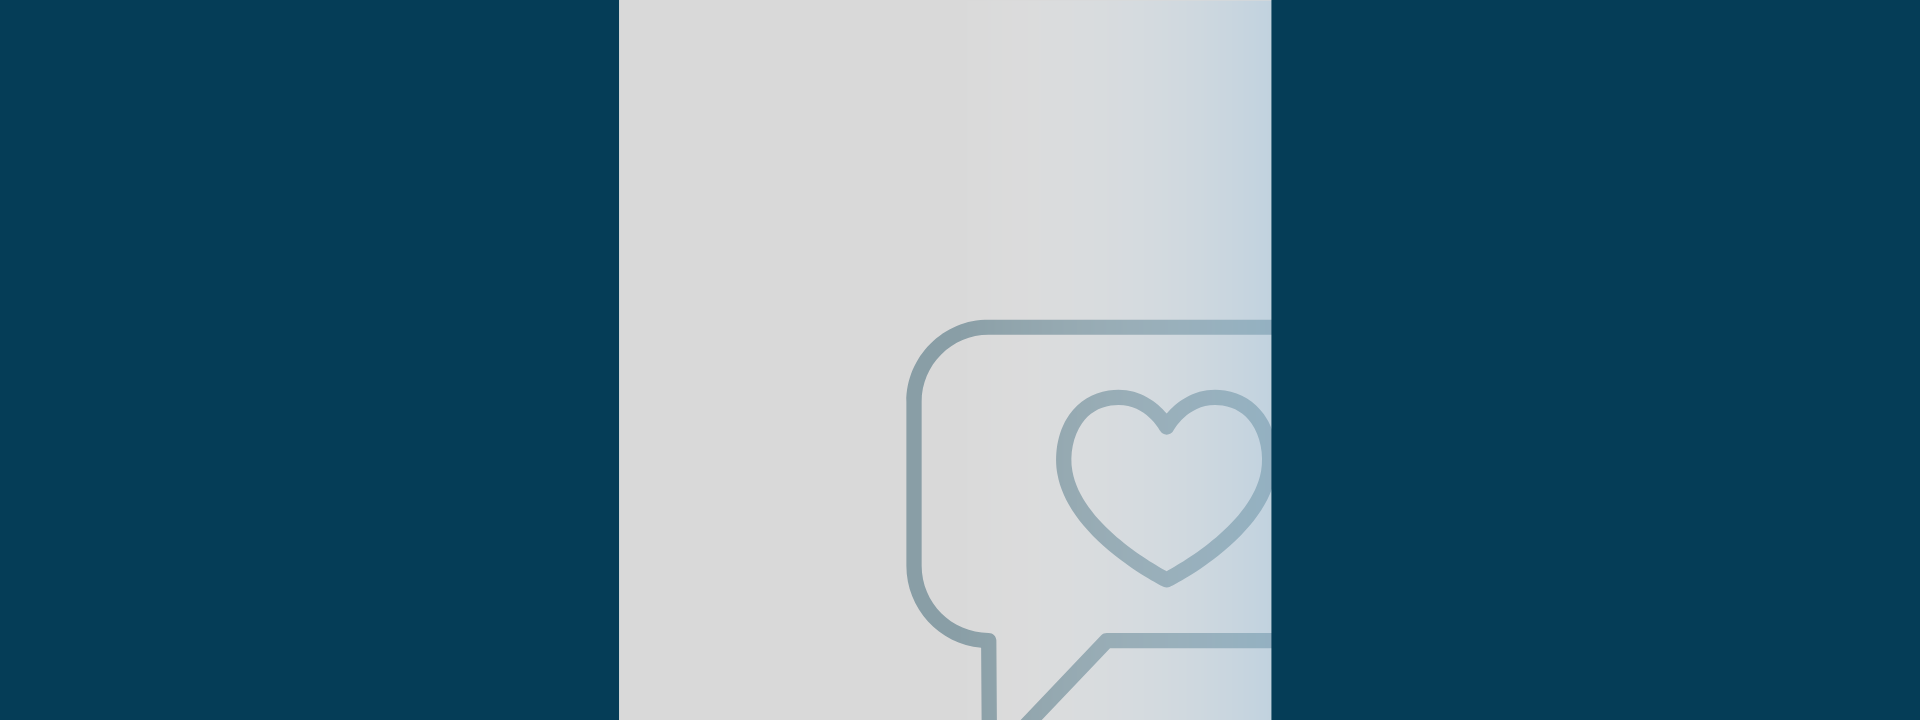
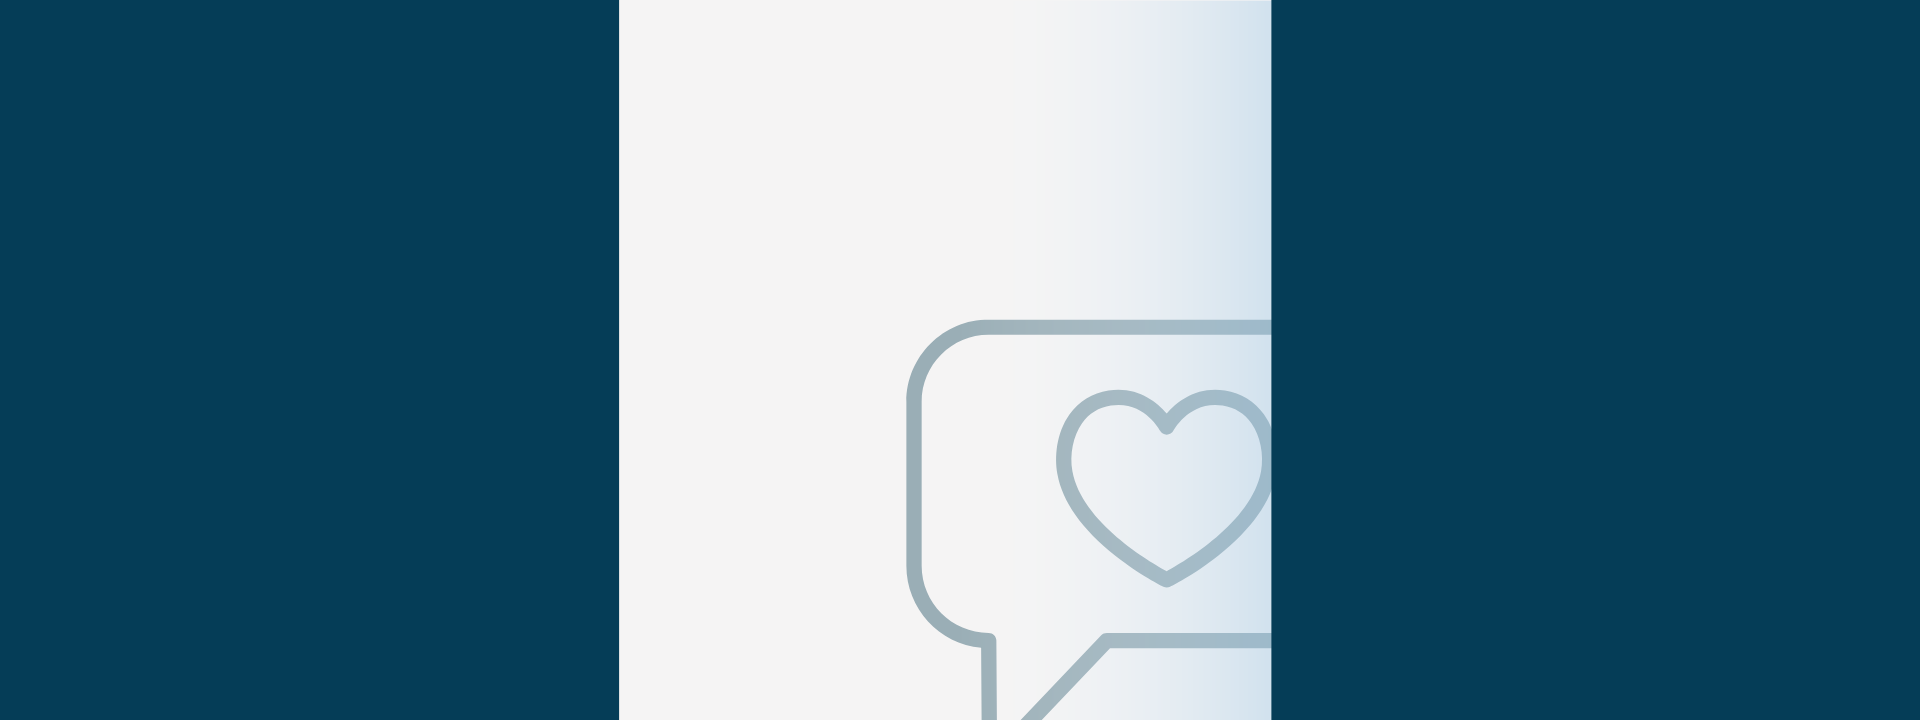
11-03-2023

Changed region(s): [[0.3125, 0.0, 0.5625, 1.0]]

diff --git a/src/Pages/Admissions.jsx b/src/Pages/Admissions.jsx
@@ -1,78 +1,17 @@
 import {React, useEffect, useState} from 'react';
 import {FaUserGraduate, FaHandshake} from "react-icons/fa"
 import {TbBulb} from "react-icons/tb"
+import Query from '../Components/Query';
 import {GiArchiveResearch, GiBrain} from "react-icons/gi"
 import {ImBooks} from "react-icons/im"
 import Carousel from '../Components/Caraousel';
 import photo from '../images/side.jpg';
 import '../assessts/admission.css';
-function Admissions() {  
-  const[name, setName] = useState('');
-  const[email, setEmail] = useState('');
-  const[phone, setPhone] = useState('');
-  const[message, setMessage] = useState('');
-  const[course, setCourse] = useState('');
+function Admissions() {
 
-  const handleSubmit = async (e) => {
-
-    e.preventDefault();
-    
-    const formData = new FormData();
-
-    formData.append("name", name);
-    formData.append("email", email);
-    formData.append("phone", phone);
-    formData.append("message", message);
-    formData.append("course", course);
-
-    console.log(formData);
-
-    const response = await fetch("https://script.google.com/macros/s/AKfycbzwQLkCGrDYtsXWalpt7E210MLYrdWRWcPqesQ8MpPTtlZmiktcX_G0oEuyrSMv-JY/exec",
-    {method: "POST",
-    body: formData,
-    mode: 'no-cors',
-  });
-    if (response.ok){
-      alert("Form Submitted");
-    }else{
-      alert("error occured");
-    }
-
-  }
   return (
     <>
-    <div className="query">
-        <div className="queryTagline">
-            <h1>Have a query?</h1>
-            <h1>Get it resolved</h1>
-            <h3>We are always there for you...</h3>
-        </div>
-        <div className="queryForm">
-            <h3>Enter your details</h3>
-            <form className="form" onSubmit={handleSubmit}>
-                <label htmlFor="Name">Name</label><br />
-                <input className='inputField' type="text" required name='Name' value={name} onChange={(e)=>setName(e.target.value)} placeholder='eg. Raj'/><br />
-                <label htmlFor="Email">Email</label><br />
-                <input className='inputField' type="email" required name='Email' value={email} onChange={(e)=>setEmail(e.target.value)} placeholder='eg. raj123@gmail.com'/><br />
-                <label htmlFor="Phone">Phone</label><br />
-                <input className='inputField' type="tel" required name='Phone' value={phone} onChange={(e)=>setPhone(e.target.value)} placeholder='eg. 7778889999' /><br />
-                <label htmlFor="Message">Message</label><br />
-                <input className='inputField' type="message" required name='Message' value={message} onChange={(e)=>setMessage(e.target.value)} placeholder='Your query' /><br />
-                <label for="cars">Select Course</label><br />
-                <select name="course" value={course} onChange={(e)=>setCourse(e.target.value)} id="select" required>
-                  <option value="default">Select Course</option>
-                  <option value="cse">B.Tech Computer Science and Engineering</option>
-                  <option value="ece">B.Tech Electronics and Communication Engineering</option>
-                  <option value="me">B.Tech Mechanical Engineering</option>
-                  <option value="bt">B.Tech Biotech Engineering</option>
-                  <option value="aiml">B.Tech Artificial Intelligence & Machine Learing</option>
-                  <option value="robo">B.Tech Automation & Robotics</option>
-                  <option value="bba">Bachelor of Business Administration</option>
-                </select><br />
-                <button id='submit' type='submit'>Submit</button>
-            </form>
-        </div>
-    </div>
+    <Query/>
     <section className='parent'>
       <div className="child">
         <div className="admit">
@@ -150,6 +89,21 @@ function Admissions() {
             </ul>
           </div>
         </div>
+        </div>
+        <div className="scholarship">
+          <div className="details">
+            <h2>Unleash your potential with SRSMT Scholarship Test- paving the way for the future engineers!</h2>
+            <p>The Sri Ram Sawarop Memorial Trust Scholarship Test is exclusively for 12th passouts aspiring to pursue engineering. It identifies and rewards exceptional academic excellence and dedication, and provides funding opportunities for their engineering education.</p>
+            <a href="https://docs.google.com/forms/d/e/1FAIpQLSfdAbk5_in7InfNYRe90b9H4QqTfUx0-Qzbo4lVnN1WanWZRQ/viewform">Click here to register for SRSMT-2023</a>
+            <h3>Scholarship Criteria</h3>
+            <ul>
+              <li>More than 90% : 100% Scholarship</li>
+              <li>80-90% : 90% Scholarship</li>
+              <li>70-80% : 80% Scholarship</li>
+              <li>60-70% : 70% Scholarship</li>
+              <li>50-60% : 60% Scholarship</li>
+            </ul>
+          </div>
         </div>
         <Carousel/>
     </section>

diff --git a/src/Components/Query.jsx b/src/Components/Query.jsx
@@ -1,0 +1,77 @@
+import {React, useState} from 'react'
+
+export default function Query() {
+
+    const[name, setName] = useState('');
+    const[phone, setPhone] = useState('');
+    const[email, setEmail] = useState('');
+    const[message, setMessage] = useState('');
+    const[course, setCourse] = useState('');
+
+    const handleSubmit = async (e) => {
+
+      const formData = new FormData();
+
+      formData.append('Name',name);
+      formData.append('Email',email);
+      formData.append('Phone',phone);
+      formData.append('Message',message);
+      formData.append('Course',course);
+  
+      e.preventDefault();
+      console.log(formData);
+  
+      try {
+        const res = await fetch("https://script.google.com/macros/s/AKfycbzlgQJIGptmwL7KuVg9yaTU9BOrofHszSYReQoa4Ed8ZUzwsc4UBiK8KFGKlGaWcm6K/exec", {
+          method: "POST",
+          body: formData,
+        });
+    
+        console.log(res);
+        if(res.ok){
+          alert("The request has been received, we'll get back to you shortly.");
+          setName('');
+          setCourse('');
+          setPhone('');
+          setMessage('');
+          setEmail('');
+        }
+      } catch (error) {
+        console.error(error);
+      }
+    }
+  return (
+    <div className="query">
+    <div className="queryTagline">
+        <h1>Have a query?</h1>
+        <h1>Get it resolved</h1>
+        <h3>We are always there for you...</h3>
+    </div>
+    <div className="queryForm">
+        <h3>Enter your details</h3>
+        <form className="form" onSubmit={handleSubmit}>
+            <label htmlFor="Name">Name</label><br />
+            <input className='inputField' type="text" required name='Name' value={name} onChange={(e) => setName(e.target.value)} placeholder='eg. Raj'/><br />
+            <label htmlFor="Email">Email</label><br />
+            <input className='inputField' type="email" required name='Email' value={email} onChange={(e) => setEmail(e.target.value)} placeholder='eg. raj123@gmail.com'/><br />
+            <label htmlFor="Phone">Phone</label><br />
+            <input className='inputField' type="tel" required name='Phone' value={phone} onChange={(e) => setPhone(e.target.value)} placeholder='eg. 7778889999' /><br />
+            <label htmlFor="Message">Message</label><br />
+            <input className='inputField' type="message" required name='Message' value={message} onChange={(e) => setMessage(e.target.value)} placeholder='Your query' /><br />
+            <label for="Course">Select Course</label><br />
+            <select name="Course" id="select" value={course} onChange={(e) => setCourse(e.target.value)} required>
+              <option value="Not Clear">Select Course</option>
+              <option value="CSE">B.Tech Computer Science and Engineering</option>
+              <option value="ECE">B.Tech Electronics and Communication Engineering</option>
+              <option value="ME">B.Tech Mechanical Engineering</option>
+              <option value="BT">B.Tech Biotech Engineering</option>
+              <option value="AI/ML">B.Tech Artificial Intelligence & Machine Learing</option>
+              <option value="ROBO">B.Tech Automation & Robotics</option>
+              <option value="BBA">Bachelor of Business Administration</option>
+            </select><br />
+            <button id='submit' type='submit'>Submit</button>
+        </form>
+    </div>
+</div>
+  )
+}

diff --git a/src/assessts/admission.css b/src/assessts/admission.css
@@ -1,5 +1,5 @@
 .query{
-    background-image: url(../images/adBanner.png);
+    background-image: url(../images/adBanner01.png);
     background-position: center;
     background-size: cover;
     position: relative;
@@ -120,6 +120,7 @@ select:focus{
     background-image: linear-gradient(#164499a2,#164499a2),url(../images/college10.jpeg);
     background-size: cover;
     min-height: 80vh;
+    background-position: center;
 }
 .reason{
     border: 2px solid #fff;
@@ -173,6 +174,43 @@ select:focus{
     margin-left: 2rem;
     border-bottom: 6px solid #1e86be;
     font-family: Poppins;
+}
+.scholarship{
+    background-image: url("../images/banner02.png");
+    background-size: cover;
+    padding: 2.5rem;
+    font-family: Poppins;
+}
+.details{
+    margin-left: 27rem;
+}
+.details h2{
+    color: #275080;
+    font-size: 2.6rem;
+}
+.details p{
+    padding: 1rem 0 0.5rem 0;
+    font-size: 1.5rem;
+}
+.details a{
+    font-size: 1.2rem;
+    color: black;
+}
+.details h3{
+    font-size: 2rem;
+    padding: 0.6rem 0 0 0;
+    color: #275080;
+}
+.details ul{
+    padding: 0.6rem 0 0 0;
+}
+.details li{
+    font-size: 1.3rem;
+    list-style-type: circle;
+}
+.details a:hover{
+    text-decoration: underline;
+    color: #a9b6be;
 }
 @media screen and (max-width:480px) {
     .query{
@@ -239,5 +277,18 @@ select:focus{
     }
     .list01 span{
         margin-left: 0;
+    }
+    .scholarship{
+        background-image: url("../images/banner01.png");
+        /* background-position: center; */
+    }
+    .details{
+        margin-left: 0;
+    }
+    .details h2{
+        font-size: 2rem;
+    }
+    .details p{
+        font-size: 1.3rem;
     }
 }

diff --git a/src/assessts/home.css b/src/assessts/home.css
@@ -80,6 +80,7 @@ html{
 
 .courses{
     padding: 2.5rem;
+    font-family: Poppins;
     position: relative;
 }
 .courses span{
@@ -425,6 +426,30 @@ html{
     background-color: #124559;
     color: #fff;
 }
+.new-course{
+    background-image: url("../images/banner03.png");
+    background-size: cover;
+    font-family: Poppins;
+    padding-bottom: 2rem;
+}
+.new-course h1{
+    color: #0087ca;
+    font-size: 3rem;
+}
+.new-course p{
+    font-size: 1.5rem;
+    padding-left: 47rem;
+    padding-top: 3rem;
+    padding-right: 3rem;
+}
+.new-course h3{
+    text-align: center;
+    padding-bottom: 2rem;
+
+    padding-left: 45rem;
+    padding-top: 6rem;
+    font-size: 1.5rem;
+}
 @media screen and (max-width:600px){
 
     .cards, .cards1{
@@ -564,8 +589,33 @@ html{
     .queFeed{
         flex-direction: column;
     }
+    .proSublist h2{
+        
+    }
     .queryBut, .feedBut{
         margin: 1rem;
         padding: 0.6rem;
+    }
+    .new-course{
+        background-position: center;
+        padding-top: 2rem;
+    }
+    .new-course h1{
+        color: #0087ca;
+        font-size: 2rem;
+    }
+    .new-course p{
+        font-size: 1.3rem;
+        padding-left: 0rem;
+        padding-top: 2rem;
+        padding-right: 1rem;
+    }
+    .new-course h3{
+        text-align: center;
+        padding-bottom: 2rem;
+    
+        padding-left: 0rem;
+        padding-top: 2rem;
+        font-size: 1.2rem;
     }
 }

diff --git a/src/Components/Course.jsx b/src/Components/Course.jsx
@@ -16,6 +16,11 @@ function Course() {
           }}
         />
       </span> your future</h1>
+      <div className="new-course">
+        <h1>Launch your Business Career with Our New BBA Course</h1>
+        <p>Our new BBA course is designed to provide students with the knowledge and skills they need to succeed in today's competitive business world. With a focus on practical learning and real-world experience, this program will equip you with the tools you need to launch a successful business career.</p>
+        <h3>Ready to launch your business career?<br /> Apply for our BBA program today and take the first step towards achieving your goals!</h3>
+      </div>
       <h2>Discover our B.Tech programs in</h2>
     </div>
     <div className="course-row">

diff --git a/src/App.js b/src/App.js
@@ -9,12 +9,14 @@ import Departments from './Pages/Departments';
 import Contact from './Pages/Contact';
 import Footer from './Components/Footer';
 import {BrowserRouter,Route,Routes}from "react-router-dom";
+import Query from './Components/Query';
 function App() {
   return (
     <>
     <BrowserRouter>
       <Navbar/>
       <Routes>
+        <Route path='/query' element={<Query/>}/>
         <Route path='/' element={<Home/>}/>
         <Route path='/about' element={<About/>}/>
         <Route path='/acadmics' element={<Academics/>}/>

diff --git a/src/Components/Navbar.jsx b/src/Components/Navbar.jsx
@@ -63,9 +63,7 @@ export default function Navbar() {
                   <Link to = "/">Download Brochure</Link>
                   <Link to = "/admissions">FEE STructure</Link>
                   <Link to = "/admissions">Scholarship</Link>
-                  <Link to = "/admissions">Admission Procedure</Link>
                   <Link to = "/">Admission Form</Link>
-                  <Link to = "/admissions">How to Apply</Link>
                   <Link to = "/contact">Contact us</Link>
                 </div>
             </div>

diff --git a/src/Pages/Departments.jsx b/src/Pages/Departments.jsx
@@ -1,9 +1,12 @@
 import React from 'react';
-
+import Course from '../Components/Course'
 function Departments() {
   return (
-    <div>Departments</div>
-  )
+    <>
+      
+      <Course/>
+    </>
+    )
 }
 
 export default Departments;
